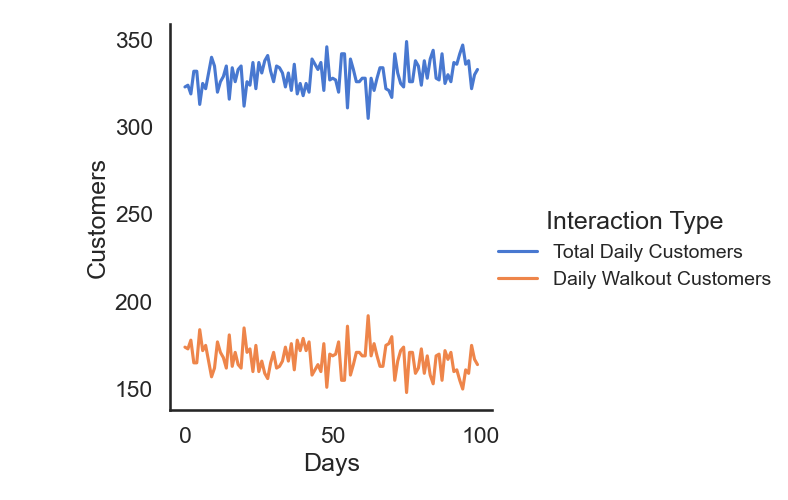
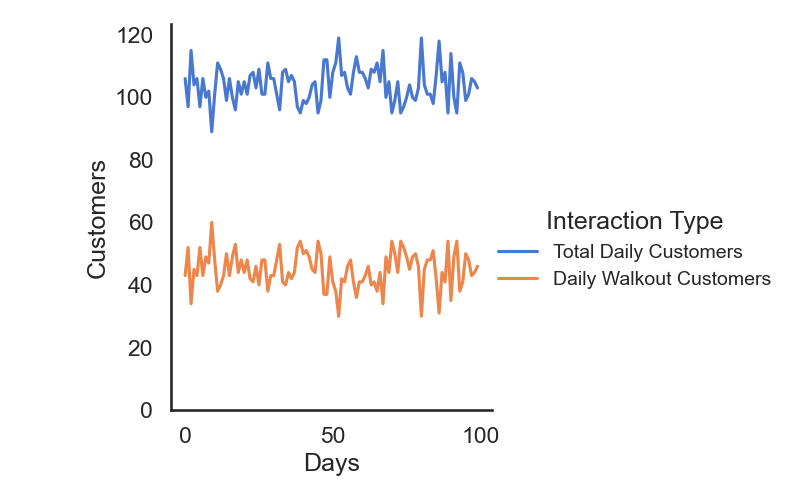
Create model tests

Changed region(s): [[0.1523, 0.06, 0.6091, 0.84]]

diff --git a/visualize.py b/visualize.py
@@ -26,6 +26,7 @@ def transform_data(data: pandas.DataFrame, columns: list[str], timestep: str, va
 def run():
     all_sim_data = pandas.read_csv('output.csv')
     optimize_data = pandas.read_csv('optimize.csv')
+    model_test_data = pandas.read_csv('test_model.csv')
 
     seaborn.set_theme(style='white', context='talk')
     plt.rcParams["figure.figsize"] = (8.3, 8.3)
@@ -38,7 +39,7 @@ def run():
     
     #Daily customers vs Walkout customers 
     data = transform_data(all_sim_data, columns=['Total Daily Customers', 'Daily Walkout Customers'], timestep='Days', value_name='Customers', var_name='Interaction Type')
-    daily_customers = seaborn.relplot(data, x='Days', y='Customers', hue='Interaction Type', kind='line', palette='muted').figure
+    daily_customers = seaborn.relplot(data, x='Days', y='Customers', hue='Interaction Type', kind='line', palette='muted').set(ylim=0).figure
 
     #Market product prices 
     data = transform_data(all_sim_data, columns=['Market Milk Price', 'Market Coffee Price', 'Market Sugar Price'], timestep='Days', value_name='Price', var_name='Product')
@@ -59,12 +60,18 @@ def run():
 
     #Gross income, gross expense, net income 
     data = transform_data(all_sim_data, columns=['Gross Daily Income', 'Gross Daily Expense', 'Net Daily Income'], timestep='Days', value_name='Money', var_name='Category')
-    income = seaborn.relplot(data, x='Days', y='Money', hue='Category', kind='line', palette='muted').set(ylim=(0, 1500)).figure
+    income = seaborn.relplot(data, x='Days', y='Money', hue='Category', kind='line', palette='muted').set(ylim=0).figure
 
     #Optimizations 
     data = optimize_data.filter(items=['Daily Customers', 'Price per Ounce', 'Number of Employees']).dropna()
     data = data.melt(id_vars=['Daily Customers'], value_vars=['Price per Ounce', 'Number of Employees'], value_name='Count', var_name='Type')
     optimizations = seaborn.relplot(data, x='Daily Customers', y='Count', hue='Type', kind='line', palette='muted').figure
+
+
+    #Model test 
+    data = model_test_data.filter(items=['Functional Revenue', 'Agent Revenue', 'Drink Price']).dropna()
+    data = data.melt(id_vars=['Drink Price'], value_vars=['Functional Revenue', 'Agent Revenue'], value_name='Revenue', var_name='Model Type')
+    model_test = seaborn.relplot(data, x='Drink Price', y='Revenue', hue='Model Type', kind='line', palette='muted').figure
 
     seaborn.despine()
 
@@ -76,5 +83,9 @@ def run():
     costs.savefig('images/costs.png', format='png')
     income.savefig('images/income.png', format='png')
     optimizations.savefig('images/optimizations.png', format='png')
+    model_test.savefig('images/model_test.png', format='png')
+
+
+run()
 
 

diff --git a/model.py b/model.py
@@ -1,6 +1,7 @@
 
 import math
 from logger import Logger
+from store import Store
 
 class Model:
     def __init__(self, expected_daily) -> None:
@@ -90,3 +91,21 @@ def gen_data():
 
 def optimal_for(expected_daily: int) -> tuple:
     return Model(expected_daily).run()
+
+
+def test_model():
+    l = Logger(['Functional Revenue', 'Agent Revenue', 'Drink Price'])
+    m = Model(150)
+    s = Store(0, 1, 150)
+
+    x = 0.06
+    while x < 0.5:
+        l.add_data('Functional Revenue', m.simulate(x, 1))
+        s.drink_price_oz = x 
+        l.add_data('Agent Revenue', s.simulate(1, False))
+        l.add_data('Drink Price', x)
+        x += 0.01
+    l.write('test_model.csv')
+
+
+test_model()

diff --git a/main.py b/main.py
@@ -4,12 +4,12 @@ import visualize
 import model
 
 
-print(model.optimal_for(300))
+print(model.optimal_for(150))
 
 #For context, Starbucks regular coffee is ~0.13$/oz
-s = store.Store(drink_price=.26, num_employees=2, expected_daily=500)
+s = store.Store(drink_price=.258, num_employees=1, expected_daily=150)
 #Simulate 50 days
-s.simulate(100)
+#s.simulate(100)
 
 visualize.run()
 
